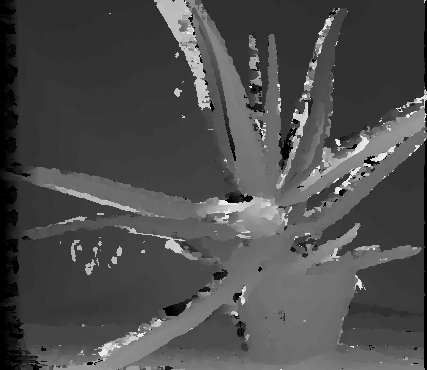
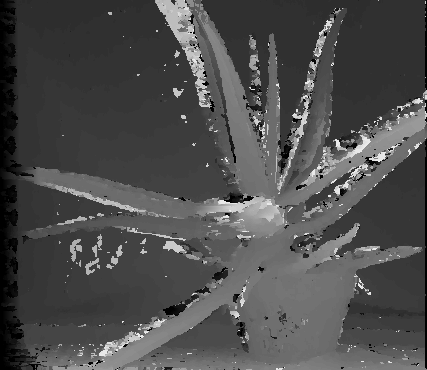
NCC

diff --git a/Stereo_Matching/src/StereoMatching.java b/Stereo_Matching/src/StereoMatching.java
@@ -7,11 +7,11 @@ public class StereoMatching {
   public BufferedImage disp_l, disp_r;
   public int max_d, patch;
   private double[] badRate;
-  
+
   public StereoMatching(BufferedImage left, BufferedImage right) {
     this(left, right, 79, 5);
   }
-  
+
   public StereoMatching(BufferedImage left, BufferedImage right, int max_disparity, int patch) {
     this.left = left;
     this.right = right;
@@ -19,7 +19,7 @@ public class StereoMatching {
     this.patch = patch;
   }
 
-  public void ssd() {
+  public void caculateDisparity(MatchingCost mc) {
     int[][] left = Utils.getPixels(this.left),
             right = Utils.getPixels(this.right);
     
@@ -40,7 +40,7 @@ public class StereoMatching {
         int min_d = 0;
         for (int d = 0; d < this.max_d; d++) {
           int[][] rp_d = getPatch(right, i, j - d);
-          double ssdcost = ssdCost(lp, rp_d);
+          double ssdcost = mc.matchingCost(lp, rp_d);
           if (ssdcost < cost) {
             cost = ssdcost;
             min_d = d;
@@ -53,7 +53,7 @@ public class StereoMatching {
         min_d = 0;
         for (int d = 0; d < this.max_d; d++) {
           int[][] lp_d = getPatch(left, i, j + d);
-          double ssdcost = ssdCost(rp, lp_d);
+          double ssdcost = mc.matchingCost(rp, lp_d);
           if (ssdcost < cost) {
             cost = ssdcost;
             min_d = d;
@@ -62,32 +62,20 @@ public class StereoMatching {
         rd[i*N + j] = min_d;
       }
     }
-    
+
     this.disp_l.getRaster().setPixels(0, 0, N, M, ld);
     this.disp_r.getRaster().setPixels(0, 0, N, M, rd);
   }
-
-  // Cost Evaluation
-  private double ssdCost(int[][] left, int[][] right) {
-    double cost = 0;
-    for (int i = 0; i < this.patch; i++) {
-      for (int j = 0; j < this.patch; j++) {
-        cost += Math.pow(Math.abs(left[i][j] - right[i][j]), 2);
-      }
-    }
-    return cost;
-  }
-
   // Helper
   public void evaluate(BufferedImage benchmark_left, BufferedImage benchmark_right) {
     try {
       if (this.disp_l.getType() != BufferedImage.TYPE_BYTE_GRAY || this.disp_r.getType() != BufferedImage.TYPE_BYTE_GRAY) {
         throw new Exception("Wrong image type.");
       }
-    
+
       int[][] l = Utils.getPixels(this.disp_l), r = Utils.getPixels(this.disp_r);
       int[][] bpL = Utils.getPixels(benchmark_left), bpR = Utils.getPixels(benchmark_right);
-      
+
       int M = benchmark_left.getHeight(), N = benchmark_right.getWidth();
 
       int[] bad= new int[] {0,0};
@@ -105,9 +93,9 @@ public class StereoMatching {
       e.printStackTrace();
     }
   }
-  
-  public void printBad(String testcase) {
-    System.out.println("The bad pixels rate of " + testcase);
+
+  public void printBad(String testcase, String method) {
+    System.out.println("The percentage of bad pixels in case: " + testcase + ", with method: " + method);
     System.out.print(this.badRate[0]);
     System.out.print(" ");
     System.out.println(this.badRate[1]);
@@ -126,7 +114,6 @@ public class StereoMatching {
           patch[i - x + pad][j - y + pad] = 0;
       }
     }
-    
     return patch;
   }
 }

diff --git a/Stereo_Matching/src/Test.java b/Stereo_Matching/src/Test.java
@@ -3,7 +3,29 @@ import java.awt.image.BufferedImage;
 import org.apache.commons.cli.CommandLine;
 
 public class Test {
-  public static void runAllCases() {}
+  public static void runAllCases() {
+    String[] cases = Utils.getAllCases();
+    
+    for (String testcase : cases) {
+      BufferedImage left = Utils.getImage(testcase, Utils.LEFT),
+                    right = Utils.getImage(testcase, Utils.RIGHT),
+                    benchmark_left = Utils.getImage(testcase, Utils.BENCHMARK_LEFT),
+                    benchmark_right = Utils.getImage(testcase, Utils.BENCHMARK_RIGHT);
+
+      // SSD
+      StereoMatching sm = new StereoMatching(left, right);
+      sm.caculateDisparity(new SSD());;
+      sm.evaluate(benchmark_left, benchmark_right);
+      sm.printBad(testcase, "SSD");
+      Utils.saveImage(new BufferedImage[]{sm.disp_l, sm.disp_r}, testcase, "SSD");
+
+      // NCC
+      sm.caculateDisparity(new NCC());
+      sm.evaluate(benchmark_left, benchmark_right);
+      sm.printBad(testcase, "NCC");
+      Utils.saveImage(new BufferedImage[]{sm.disp_l, sm.disp_r}, testcase, "NCC");
+    }
+  }
 
   public static void main(String[] args) {
     // TODO Auto-generated method stub
@@ -15,11 +37,20 @@ public class Test {
                 right = Utils.getImage(testcase, Utils.RIGHT),
                 benchmark_left = Utils.getImage(testcase, Utils.BENCHMARK_LEFT),
                 benchmark_right = Utils.getImage(testcase, Utils.BENCHMARK_RIGHT);
+
+        // SSD
         StereoMatching sm = new StereoMatching(left, right);
-        sm.ssd();
+        sm.caculateDisparity(new SSD());
         sm.evaluate(benchmark_left, benchmark_right);
-        sm.printBad(testcase);
+        sm.printBad(testcase, "SSD");
         Utils.saveImage(new BufferedImage[]{sm.disp_l, sm.disp_r}, testcase, "SSD");
+
+        // NCC
+        sm.caculateDisparity(new NCC());
+        sm.evaluate(benchmark_left, benchmark_right);
+        sm.printBad(testcase, "NCC");
+        Utils.saveImage(new BufferedImage[]{sm.disp_l, sm.disp_r}, testcase, "NCC");
+
     } else if (cmd.hasOption("all")) {
         runAllCases();
     }

diff --git a/Stereo_Matching/src/Utils.java b/Stereo_Matching/src/Utils.java
@@ -1,4 +1,3 @@
-import java.awt.Color;
 import java.awt.image.BufferedImage;
 import java.awt.image.DataBufferByte;
 import java.awt.image.WritableRaster;
@@ -46,6 +45,15 @@ public class Utils {
     return assetsDir;
   }
 
+  public static String[] getAllCases() {
+    File file = new File(Utils.getAssetsDir());
+    File[] cases = file.listFiles();
+    String[] testcases = new String[cases.length];
+    for (int i = 0; i < testcases.length; i++)
+      testcases[i] = cases[i].getName();
+    return testcases;
+  }
+  
   public static String getDestDir() {
       File file = new File("");
       String parentDir = file.getAbsolutePath();
@@ -89,10 +97,6 @@ public class Utils {
     }
     
     return img;
-  }
-  
-  public static int toRGB(int pixel) { 
-    return pixel + (pixel << 8) + (pixel << 16) + (0xff << 24);
   }
 
   public static int[][] getPixels(BufferedImage image) {
@@ -158,7 +162,7 @@ public class Utils {
       l.mkdirs();
       ImageIO.write(left, "PNG", l);
       ImageIO.write(right, "PNG", r);
-      System.out.println("Saved");
+      System.out.println("Images has been saved.");
     } catch(Exception e) {
       e.printStackTrace();
     }

diff --git a/Stereo_Matching/src/NCC.java b/Stereo_Matching/src/NCC.java
@@ -1,0 +1,34 @@
+public class NCC implements MatchingCost {
+  public double matchingCost(int[][] left, int[][] right) {
+    double cost = 0;
+    double mean_l = 0, mean_r = 0, std_l = 0, std_r = 0;
+
+    int M = left.length, N = left[0].length;
+    for (int i = 0; i < M; i++)
+      for (int j = 0; j < N; j++) {
+        mean_l += left[i][j];
+        mean_r += right[i][j];
+      }
+
+    mean_l /= (M * N);
+    mean_r /= (M * N);
+    
+    for (int i = 0; i < M; i++)
+      for (int j = 0; j < N; j++) {
+        std_l += Math.pow(left[i][j] - mean_l, 2);
+        std_r += Math.pow(right[i][j] - mean_r, 2);
+      }
+
+    std_l /= (M * N);
+    std_r /= (M * N);
+    std_l = Math.sqrt(std_l);
+    std_r = Math.sqrt(std_r);
+
+    for (int i = 0; i < M; i++)
+      for (int j = 0; j < N; j++) {
+        cost += (left[i][j] - mean_l) * (right[i][j] - mean_r);
+      }
+
+    return 1 - cost / (M * N * std_l * std_r);
+  }
+}

diff --git a/Stereo_Matching/src/SSD.java b/Stereo_Matching/src/SSD.java
@@ -1,0 +1,12 @@
+public class SSD implements MatchingCost {
+  public double matchingCost(int[][] left, int[][] right) {
+    double cost = 0;
+
+    int M = left.length, N = left[0].length;
+    for (int i = 0; i < M; i++)
+      for (int j = 0; j < N; j++)
+        cost += Math.pow(Math.abs(left[i][j] - right[i][j]), 2);
+
+    return cost;
+  }
+}

diff --git a/Stereo_Matching/src/ASW.java b/Stereo_Matching/src/ASW.java
@@ -1,0 +1,5 @@
+public class ASW implements MatchingCost {
+  public double matchingCost(int[][] left, int[][] right) {
+
+  }
+}

diff --git a/Stereo_Matching/src/MatchingCost.java b/Stereo_Matching/src/MatchingCost.java
@@ -1,0 +1,3 @@
+public interface MatchingCost {
+  public double matchingCost(int[][] left, int[][] right);
+}
